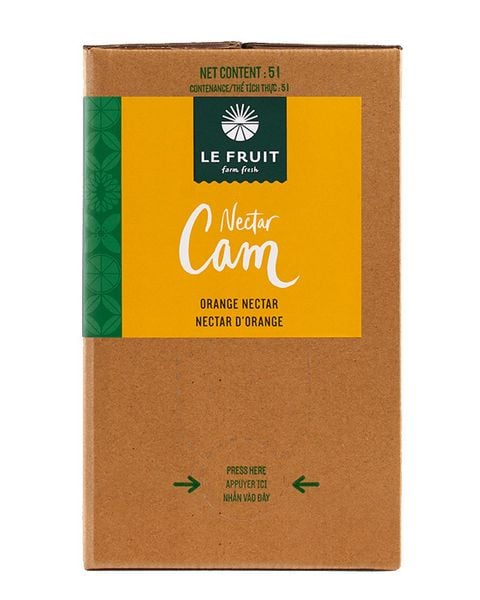
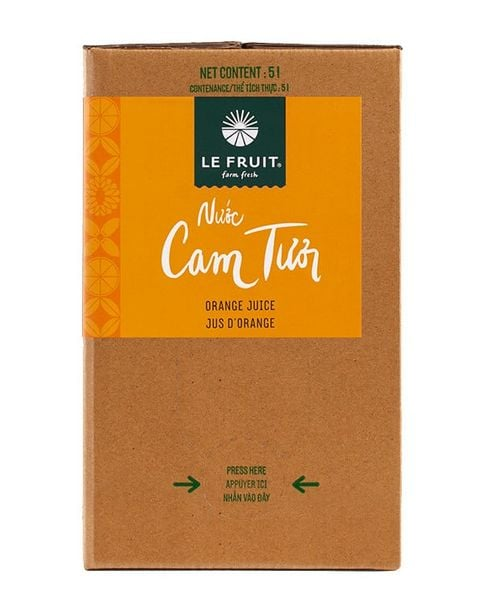
bo sung them cac loai san pham 130ml

Changed region(s): [[0.3125, 0.15, 0.75, 0.57], [0.1562, 0.15, 0.2812, 0.57]]

diff --git a/products.html b/products.html
@@ -119,15 +119,15 @@
 
             <ul class="nav nav-tabs nav-fill border mb-4" id="productTabs" role="tablist">
                 <li class="nav-item" role="presentation">
-                    <button class="nav-link active fw-bold" id="tab1-tab"
-                            data-bs-toggle="tab" data-bs-target="#tab1" type="button" role="tab" aria-controls="tab1"
+                    <button class="nav-link active fw-bold" id="tab1-tab" data-bs-toggle="tab"
+                            data-bs-target="#tab1" type="button" role="tab" aria-controls="tab1"
                             aria-selected="true">Nước Ép
                     </button>
                 </li>
                 <li class="nav-item" role="presentation">
                     <button class="nav-link fw-bold" id="tab2-tab" data-bs-toggle="tab"
-                            data-bs-target="#tab3" type="button" role="tab" aria-controls="tab2" aria-selected="false">
-                        Đặc Biệt
+                            data-bs-target="#tab2" type="button" role="tab" aria-controls="tab2"
+                            aria-selected="false">Đặc Biệt
                     </button>
                 </li>
             </ul>
@@ -559,7 +559,7 @@
                         <!--CARD 25 https://lefruitstore.com/products/nuoc-cam-nectar-5l-->
                         <div class="col">
                             <div class="card product-card h-100 text-center">
-                                <img src="images/product/camtuoi5L.jpg" class="card-img-top" alt="Nước cam nectar - 5L"/>
+                                <img src="images/product/camnectar5L.jpg" class="card-img-top" alt="Nước cam nectar - 5L"/>
                                 <div class="card-body d-flex flex-column justify-content-between">
                                     <div>
                                         <h5 class="card-title">Nước cam nectar - 5L</h5>
@@ -712,7 +712,7 @@
                                 </div>
                             </div>
                         </div>
-                        <!--CARD 34 https://lefruitstore.com/products/nuoc-dua-tuoi-5l-->
+                        <!--CARD 34 https://lefruitstore.com/products/nuoc-oi-5l-->
                         <div class="col">
                             <div class="card product-card h-100 text-center">
                                 <img src="images/product/oi5L.jpg" class="card-img-top" alt="Nước ổi - 5L"/>
@@ -742,6 +742,92 @@
                                         <a href="product/product-detail35.html" class="btn btn-sm btn-outline-success mb-2">Chi
                                             tiết</a>
                                         <a href="product/product-detail35.html" class="btn btn-sm btn-primary-custom">Thêm vào giỏ</a>
+                                    </div>
+                                </div>
+                            </div>
+                        </div>
+                        <!--CARD 36 https://lefruitstore.com/products/nuoc-tao-5l-->
+                        <div class="col">
+                            <div class="card product-card h-100 text-center">
+                                <img src="images/product/tao5L.jpg" class="card-img-top" alt="Nước táo - 5L"/>
+                                <div class="card-body d-flex flex-column justify-content-between">
+                                    <div>
+                                        <h5 class="card-title">Nước táo - 5L</h5>
+                                        <p class="card-text text-danger fw-bold mb-3">369.000đ</p>
+                                    </div>
+                                    <div>
+                                        <a href="product/product-detail36.html" class="btn btn-sm btn-outline-success mb-2">Chi
+                                            tiết</a>
+                                        <a href="product/product-detail36.html" class="btn btn-sm btn-primary-custom">Thêm vào giỏ</a>
+                                    </div>
+                                </div>
+                            </div>
+                        </div>
+
+                        <!--CARD 37 https://lefruitstore.com/products/nuoc-xoai-5l-->
+                        <div class="col">
+                            <div class="card product-card h-100 text-center">
+                                <img src="images/product/xoai5L.jpg" class="card-img-top" alt="Nước xoài - 5L"/>
+                                <div class="card-body d-flex flex-column justify-content-between">
+                                    <div>
+                                        <h5 class="card-title">Nước xoài - 5L</h5>
+                                        <p class="card-text text-danger fw-bold mb-3">289.000₫</p>
+                                    </div>
+                                    <div>
+                                        <a href="product/product-detail37.html" class="btn btn-sm btn-outline-success mb-2">Chi
+                                            tiết</a>
+                                        <a href="product/product-detail37.html" class="btn btn-sm btn-primary-custom">Thêm vào giỏ</a>
+                                    </div>
+                                </div>
+                            </div>
+                        </div>
+                        <!-- CARD 38 https://lefruitstore.com/products/nuoc-tao-le-fruit-kids-->
+                        <div class="col">
+                            <div class="card product-card h-100 text-center">
+                                <img src="images/product/tao130ml.jpg" class="card-img-top" alt="Nước táo Le Fruit Kids - 130ml"/>
+                                <div class="card-body d-flex flex-column justify-content-between">
+                                    <div>
+                                        <h5 class="card-title">Nước táo Le Fruit Kids - 130ml</h5>
+                                        <p class="card-text text-danger fw-bold mb-3">35.000₫</p>
+                                    </div>
+                                    <div>
+                                        <a href="product/product-detail38.html" class="btn btn-sm btn-outline-success mb-2">Chi
+                                            tiết</a>
+                                        <a href="product/product-detail38.html" class="btn btn-sm btn-primary-custom">Thêm vào giỏ</a>
+                                    </div>
+                                </div>
+                            </div>
+                        </div>
+                        <!--CARD 39 https://lefruitstore.com/products/nuoc-cu-den-oi-thanh-long-5l-->
+                        <div class="col">
+                            <div class="card product-card h-100 text-center">
+                                <img src="images/product/cudenoithanglong5L.jpg" class="card-img-top" alt="Nước Củ dền - Ổi - Thanh long - 5L"/>
+                                <div class="card-body d-flex flex-column justify-content-between">
+                                    <div>
+                                        <h5 class="card-title">Nước Củ dền - Ổi - Thanh long - 5L</h5>
+                                        <p class="card-text text-danger fw-bold mb-3">335.000đ</p>
+                                    </div>
+                                    <div>
+                                        <a href="product/product-detail39.html" class="btn btn-sm btn-outline-success mb-2" >Chi
+                                            tiết</a>
+                                        <a href="product/product-detail39.html" class="btn btn-sm btn-primary-custom">Thêm vào giỏ</a>
+                                    </div>
+                                </div>
+                            </div>
+                        </div>
+                        <!--CARD 40 https://lefruitstore.com/products/nuoc-cam-tuoi-5l-->
+                        <div class="col">
+                            <div class="card product-card h-100 text-center">
+                                <img src="images/product/camtuoi5L.jpg" class="card-img-top" alt="Nước cam tươi - 5L"/>
+                                <div class="card-body d-flex flex-column justify-content-between">
+                                    <div>
+                                        <h5 class="card-title">Nước cam tươi - 5L</h5>
+                                        <p class="card-text text-danger fw-bold mb-3">489.000đ</p>
+                                    </div>
+                                    <div>
+                                        <a href="product/product-detail40.html" class="btn btn-sm btn-outline-success mb-2">Chi
+                                            tiết</a>
+                                        <a href="product/product-detail40.html" class="btn btn-sm btn-primary-custom">Thêm vào giỏ</a>
                                     </div>
                                 </div>
                             </div>
